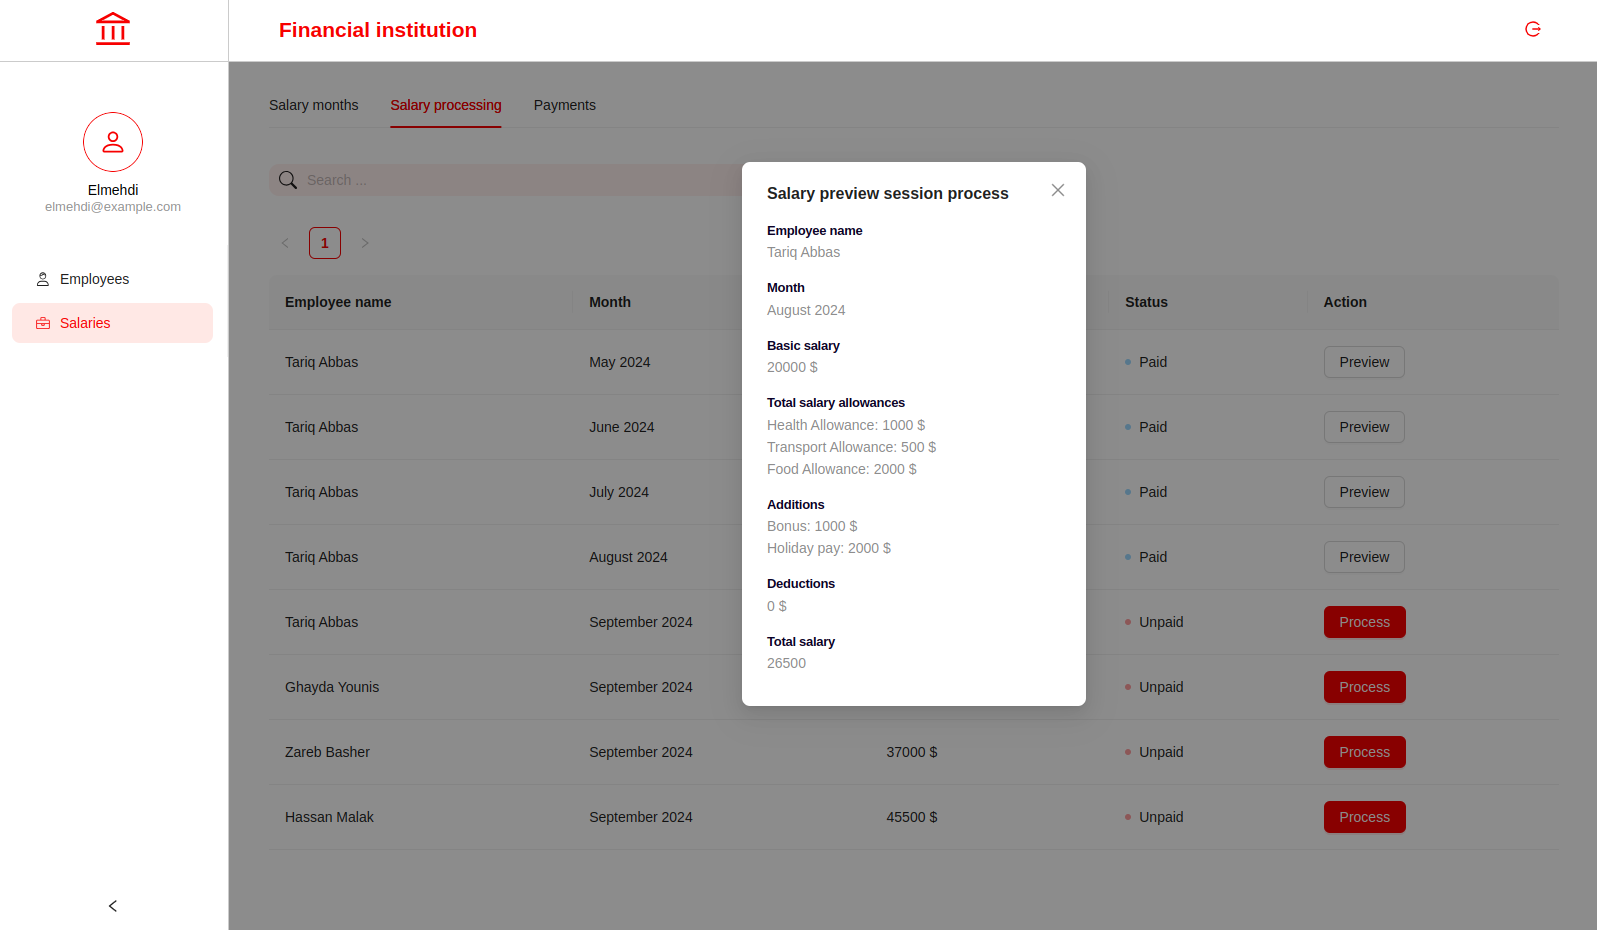
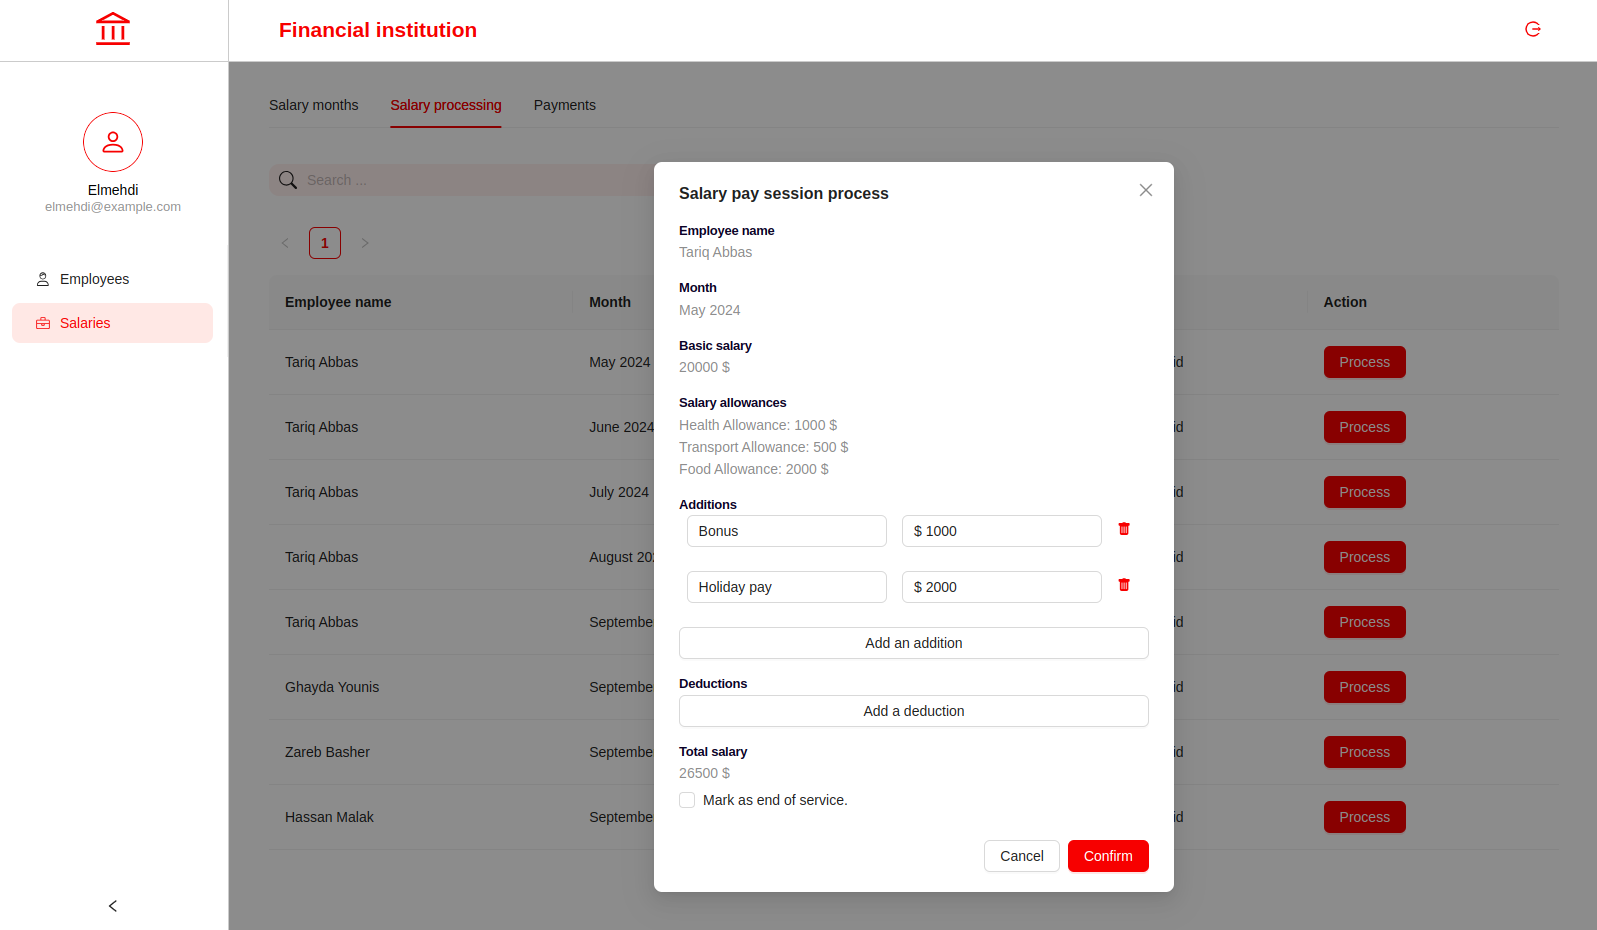
refactor: :hammer: general updates

diff --git a/apps/repo/src/modules/salaries/pages/SalariesProcessingPage.tsx b/apps/repo/src/modules/salaries/pages/SalariesProcessingPage.tsx
@@ -78,11 +78,11 @@ const SalariesProcessingPage = () => {
       key: "salary",
       render: (_, record) => (
         <>
-          {record.employee?.basicSalary +
-            (record.employee?.salaryAllowances?.reduce(
-              (total, allowance) => total + allowance.amount,
-              0
-            ) ?? 0) +
+          {(record?.paid ? record.basicSalary : record?.employee?.basicSalary) +
+            ((record?.paid
+              ? record.salaryAllowances
+              : record?.employee?.salaryAllowances
+            )?.reduce((total, allowance) => total + allowance.amount, 0) ?? 0) +
             (record.additions?.reduce(
               (total, addition) => total + addition.amount,
               0

diff --git a/apps/repo/src/modules/salaries/components/EmployeeSalaryProcessModal.tsx b/apps/repo/src/modules/salaries/components/EmployeeSalaryProcessModal.tsx
@@ -33,6 +33,7 @@ const EmployeeSalaryProcessModal = ({
   const deductionsValue = Form.useWatch("deductions", salaryForm);
 
   const handleCloseModal = () => {
+    salaryForm.setFieldsValue({ additions: [], deductions: [] });
     setSalaryToEdit(null);
   };
 
@@ -315,7 +316,8 @@ const EmployeeSalaryProcessModal = ({
               (total: number, deduction: ISalaryAddition) =>
                 total + (deduction?.amount ?? 0),
               0
-            ) ?? 0)}
+            ) ?? 0)}{" "}
+          $
         </StyledValue>
         {!salaryToEdit?.paid && (
           <Form.Item name="endOfService">

diff --git a/README.md b/README.md
@@ -18,7 +18,8 @@ This Turborepo includes the following packages/apps:
 ### Apps and Packages
 
 - `repo`: a [React.js](https://react.dev/) app
-- `@repo/lib`: a stub React component library shared by `repo` application
+- `@repo/lib`: a library shared by `repo` application
+- `@repo/icons`: a library of icons as React components, shared by the `repo` application
 - `@repo/eslint-config`: `eslint` configurations (includes `eslint-config-next` and `eslint-config-prettier`)
 - `@repo/typescript-config`: `tsconfig.json`s used throughout the monorepo
 
